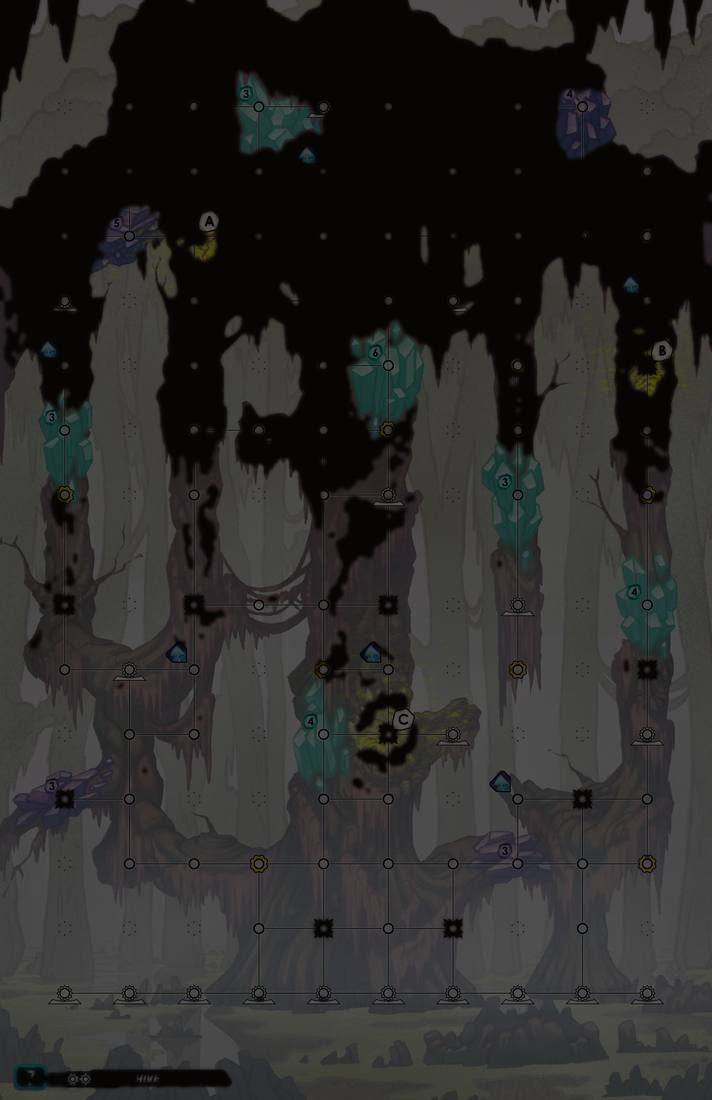
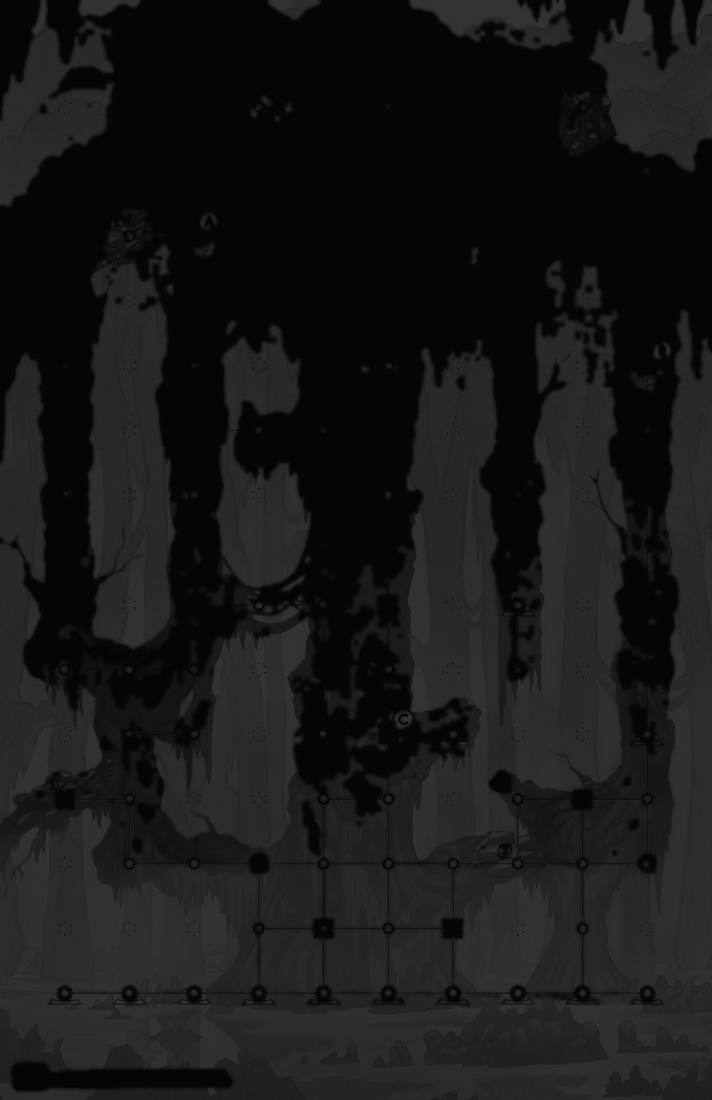
Leviathan Wilds: darker silhouettes for Watcher and Hive
Their cut-outs left the lower body, eye, trunks and crystals showing.
Now every model's cut-out is combined with a colour one and the
background is darker; the images get a ?v= so phones that cached the
old ones fetch them again.

diff --git a/js/leviathan-wilds.js b/js/leviathan-wilds.js
@@ -14,6 +14,8 @@ const LW_BGGID = 358737;
 const LW_LEVIATHANS = ['Sage', 'Sentinel', 'Storm', 'Watcher', 'Weaver', 'Avalanche', 'Hive', 'Collector', 'Fury',
   'Bloom', 'Forsaken', 'Tunneler', 'Twins', 'Vortex', 'Hunger', 'Deep', 'Tyrant'];
 const LW_NO_ART = new Set(['Tyrant']);
+// silhouettes redone since they first went out: a new ?v= so phones fetch them again
+const LW_SHADOW_REV = { Watcher: 2, Hive: 2 };
 
 // A player's journey: each won play heals the next leviathan.
 function _lwJourney(plays, name) {
@@ -48,7 +50,7 @@ function buildLeviathanWildsHtml(game, plays) {
     const slug = name.toLowerCase();
     const art = LW_NO_ART.has(name)
       ? `<div class="lw-mystery">?</div>`
-      : `<img src="images/leviathans/${slug}${h ? '' : '-shadow'}.jpg" alt="${h ? esc(name) : ''}" loading="lazy" decoding="async">`;
+      : `<img src="images/leviathans/${slug}${h ? '.jpg' : `-shadow.jpg${LW_SHADOW_REV[name] ? `?v=${LW_SHADOW_REV[name]}` : ''}`}" alt="${h ? esc(name) : ''}" loading="lazy" decoding="async">`;
     const sub = h
       ? `<div class="lw-sub healed">Healed ${fmt(h.date)} &middot; ${nth(h.tries)}${h.with.length ? ` &middot; with ${h.with.map(esc).join(', ')}` : ''}</div>`
       : next

diff --git a/index.html b/index.html
@@ -245,7 +245,7 @@
 <script src="js/trackers.js?v=85bb8721"></script>
 <script src="js/spirit-island.js?v=051a29f6"></script>
 <script src="js/progress-boards.js?v=9913a94e"></script>
-<script src="js/leviathan-wilds.js?v=e4bd5053"></script>
+<script src="js/leviathan-wilds.js?v=804fd0ad"></script>
 <script src="js/rove-campaign.js?v=3f72a209"></script>
 <script src="js/shell.js?v=bb7a0e39"></script>
 <script src="js/records.js?v=0c65308e"></script>
